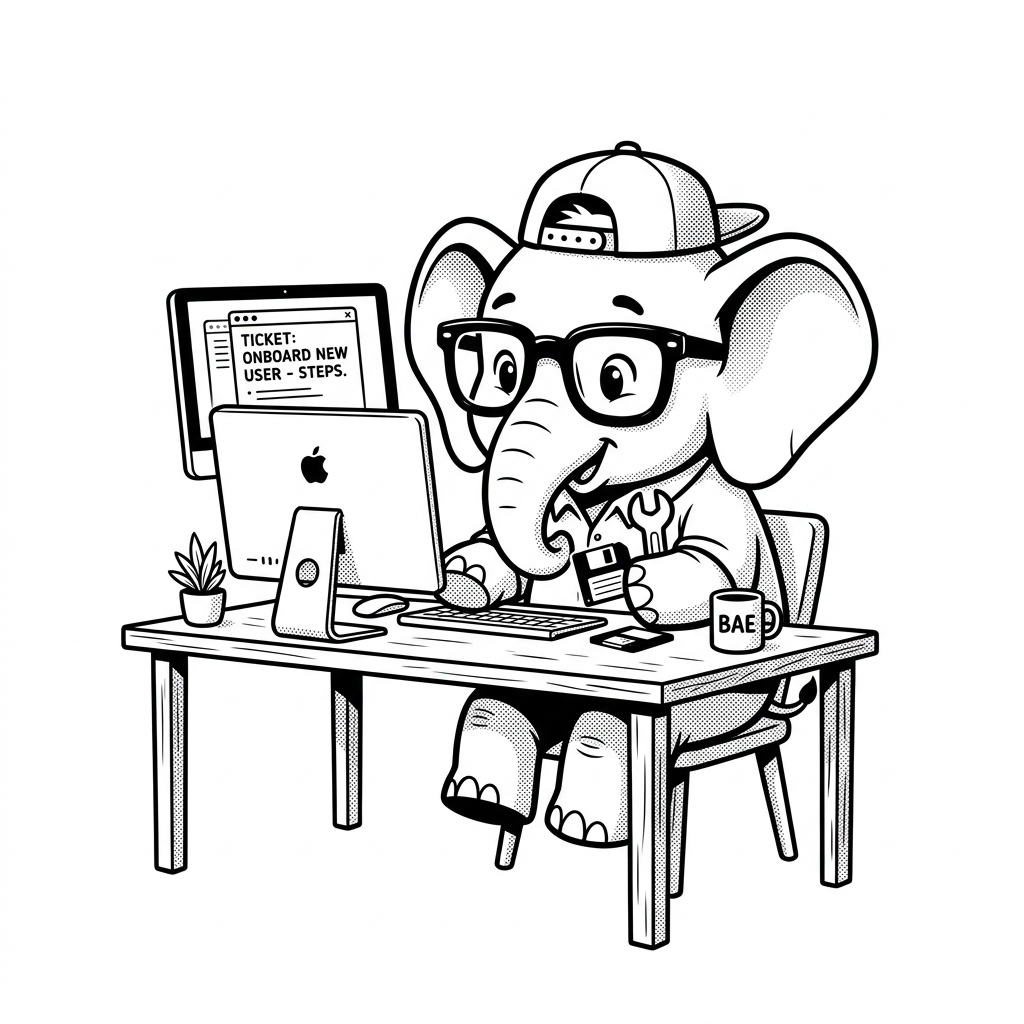
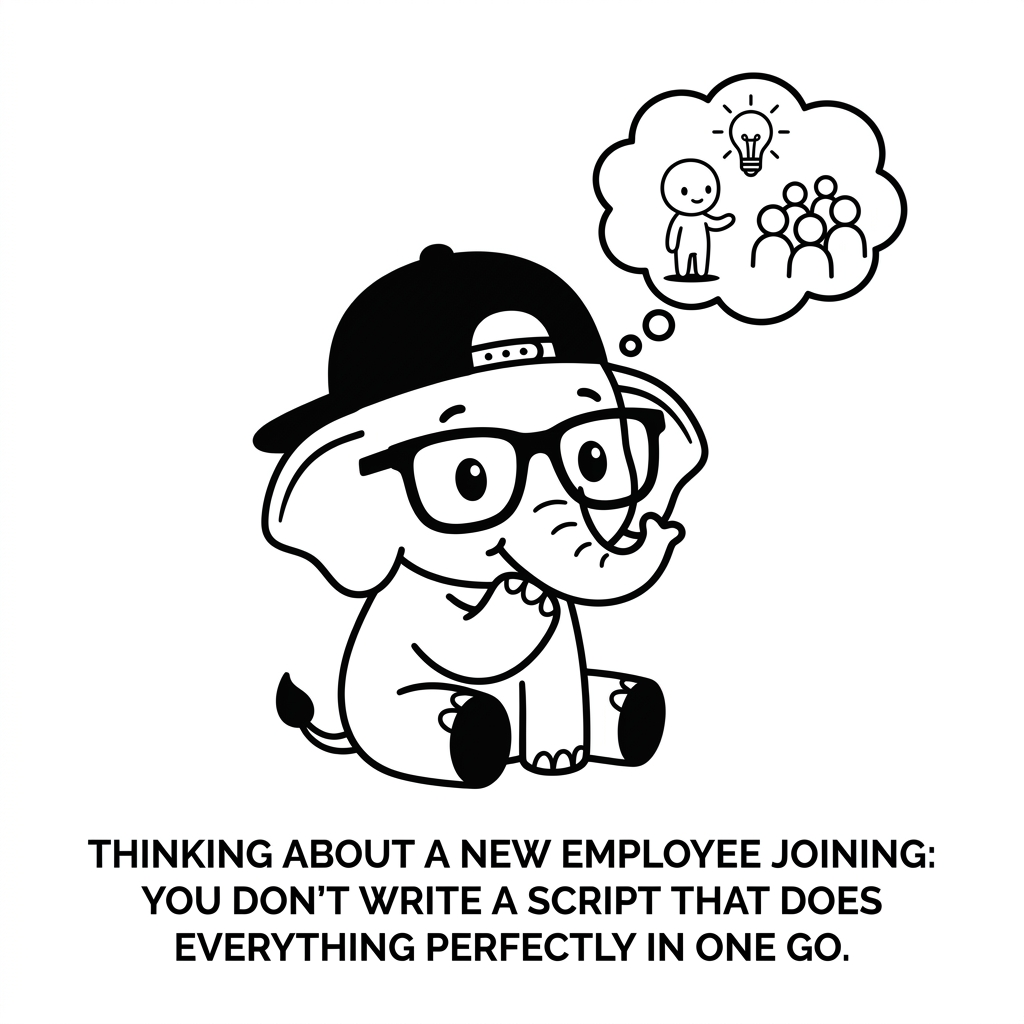
updated images

diff --git a/pending_illustrations.md b/pending_illustrations.md
@@ -10,32 +10,15 @@ An agent in an interactive chat session can then read this file, generate the im
 ## Queue
 
 <!-- entries start -->
-### Course: Agentic Frameworks (9 topics pending)
+### Course: Agentic Frameworks (0 topics pending)
 
 | Topic | File Path | Target Image Path | Prompt |
 |---|---|---|---|
-| Google ADK Tools and Functions | [`google-adk-tools-and-functions.mdx`](file:///docs/school/agentic-frameworks/google-adk/google-adk-tools-and-functions.mdx) | [`google-adk-tools-and-functions.png`](file:///docs/school/agentic-frameworks/assets/google-adk/google-adk-tools-and-functions.png) | Modern black and white illustration, clean ink or vector style. Pure white background. Strictly grayscale, no colors. Minimal text. The main character is Bae, a cute baby elephant drawn in black and white, wearing a backward baseball cap and oversized thick-rimmed glasses. Bae the baby elephant is imagine a master mechanic (the LLM). If he only has a wrench, he can only do basic repairs. |
-| What Are AI Agents? | [`what-are-ai-agents.mdx`](file:///docs/school/agentic-frameworks/intro/what-are-ai-agents.mdx) | [`what-are-ai-agents.png`](file:///docs/school/agentic-frameworks/assets/intro/what-are-ai-agents.png) | Modern black and white illustration, clean ink or vector style. Pure white background. Strictly grayscale, no colors. Minimal text. The main character is Bae, a cute baby elephant drawn in black and white, wearing a backward baseball cap and oversized thick-rimmed glasses. Bae the baby elephant is ![Illustration of Bae as a new IT employee](../assets/intro/what-are-ai-agents.png) think about when a new employee joins. You don’t write a script that does everything perfectly in one go. |
-| OpenAI Agents SDK Fundamentals | [`openai-sdk-fundamentals.mdx`](file:///docs/school/agentic-frameworks/openai-agents-sdk/openai-sdk-fundamentals.mdx) | [`openai-sdk-fundamentals.png`](file:///docs/school/agentic-frameworks/assets/openai-agents-sdk/openai-sdk-fundamentals.png) | Modern black and white illustration, clean ink or vector style. Pure white background. Strictly grayscale, no colors. Minimal text. The main character is Bae, a cute baby elephant drawn in black and white, wearing a backward baseball cap and oversized thick-rimmed glasses. Bae the baby elephant is using the OpenAI Agents SDK is like buying a pre-built gaming PC directly from Dell. It works perfectly out of the box, all the parts are guaranteed to work together, and support is easy. |
-| Agent Guardrails in OpenAI SDK | [`openai-sdk-guardrails.mdx`](file:///docs/school/agentic-frameworks/openai-agents-sdk/openai-sdk-guardrails.mdx) | [`openai-sdk-guardrails.png`](file:///docs/school/agentic-frameworks/assets/openai-agents-sdk/openai-sdk-guardrails.png) | Modern black and white illustration, clean ink or vector style. Pure white background. Strictly grayscale, no colors. Minimal text. The main character is Bae, a cute baby elephant drawn in black and white, wearing a backward baseball cap and oversized thick-rimmed glasses. Bae the baby elephant is think of a bowling alley. If you are a beginner, your ball is going to end up in the gutter. |
-| Agent Handoffs in OpenAI SDK | [`openai-sdk-handoffs.mdx`](file:///docs/school/agentic-frameworks/openai-agents-sdk/openai-sdk-handoffs.mdx) | [`openai-sdk-handoffs.png`](file:///docs/school/agentic-frameworks/assets/openai-agents-sdk/openai-sdk-handoffs.png) | Modern black and white illustration, clean ink or vector style. Pure white background. Strictly grayscale, no colors. Minimal text. The main character is Bae, a cute baby elephant drawn in black and white, wearing a backward baseball cap and oversized thick-rimmed glasses. Bae the baby elephant is think of a corporate call center. You call the helpline and get the Receptionist (Router Agent). |
-| OpenAI Agents SDK Production Deployment | [`openai-sdk-production-deployment.mdx`](file:///docs/school/agentic-frameworks/openai-agents-sdk/openai-sdk-production-deployment.mdx) | [`openai-sdk-production-deployment.png`](file:///docs/school/agentic-frameworks/assets/openai-agents-sdk/openai-sdk-production-deployment.png) | Modern black and white illustration, clean ink or vector style. Pure white background. Strictly grayscale, no colors. Minimal text. The main character is Bae, a cute baby elephant drawn in black and white, wearing a backward baseball cap and oversized thick-rimmed glasses. Bae the baby elephant is writing a Python script on your laptop to talk to OpenAI is like practicing guitar in your bedroom. It's fun and easy. |
-| OpenAI SDK Tools and Functions | [`openai-sdk-tools-and-functions.mdx`](file:///docs/school/agentic-frameworks/openai-agents-sdk/openai-sdk-tools-and-functions.mdx) | [`openai-sdk-tools-and-functions.png`](file:///docs/school/agentic-frameworks/assets/openai-agents-sdk/openai-sdk-tools-and-functions.png) | Modern black and white illustration, clean ink or vector style. Pure white background. Strictly grayscale, no colors. Minimal text. The main character is Bae, a cute baby elephant drawn in black and white, wearing a backward baseball cap and oversized thick-rimmed glasses. Bae the baby elephant is an LLM without tools is like a very smart executive locked in a room without a phone or a computer. They know a lot of theory, but they can't check today's stock price or send an email. |
-| Observability and Tracing in OpenAI SDK | [`openai-sdk-tracing.mdx`](file:///docs/school/agentic-frameworks/openai-agents-sdk/openai-sdk-tracing.mdx) | [`openai-sdk-tracing.png`](file:///docs/school/agentic-frameworks/assets/openai-agents-sdk/openai-sdk-tracing.png) | Modern black and white illustration, clean ink or vector style. Pure white background. Strictly grayscale, no colors. Minimal text. The main character is Bae, a cute baby elephant drawn in black and white, wearing a backward baseball cap and oversized thick-rimmed glasses. Bae the baby elephant is imagine managing a Swiggy delivery fleet. If a customer complains their food is cold, and all you know is 'Food Delivered at 8 PM,' you can't fix the problem. |
 
-### Course: App Security (10 topics pending)
+### Course: App Security (1 topic pending)
 
 | Topic | File Path | Target Image Path | Prompt |
 |---|---|---|---|
-| API Security | [`api-security.mdx`](file:///docs/school/app-security/api-security.mdx) | [`api-security.png`](file:///docs/school/app-security/assets/api-security.png) | Modern black and white illustration, clean ink or vector style. Pure white background. Strictly grayscale, no colors. Minimal text. The main character is Bae, a cute baby elephant drawn in black and white, wearing a backward baseball cap and oversized thick-rimmed glasses. Bae the baby elephant is imagine you run a massive cloud kitchen (like a backend API) that serves Swiggy and Zomato. You don't have waiters; you just have an automated counter where delivery guys drop tickets. |
-| Authentication Deep Dive | [`authentication-deep-dive.mdx`](file:///docs/school/app-security/authentication-deep-dive.mdx) | [`authentication-deep-dive.png`](file:///docs/school/app-security/assets/authentication-deep-dive.png) | Modern black and white illustration, clean ink or vector style. Pure white background. Strictly grayscale, no colors. Minimal text. The main character is Bae, a cute baby elephant drawn in black and white, wearing a backward baseball cap and oversized thick-rimmed glasses. Bae the baby elephant is think about trying to get into an exclusive corporate tech park. You don't just walk in. |
-| Authorization: RBAC and ABAC | [`authorization-rbac-abac.mdx`](file:///docs/school/app-security/authorization-rbac-abac.mdx) | [`authorization-rbac-abac.png`](file:///docs/school/app-security/assets/authorization-rbac-abac.png) | Modern black and white illustration, clean ink or vector style. Pure white background. Strictly grayscale, no colors. Minimal text. The main character is Bae, a cute baby elephant drawn in black and white, wearing a backward baseball cap and oversized thick-rimmed glasses. Bae the baby elephant is remember the tech park example from Authentication? So, the guard checked your ID and let you into the building (AuthN). |
-| Data Protection and Privacy | [`data-protection.mdx`](file:///docs/school/app-security/data-protection.mdx) | [`data-protection.png`](file:///docs/school/app-security/assets/data-protection.png) | Modern black and white illustration, clean ink or vector style. Pure white background. Strictly grayscale, no colors. Minimal text. The main character is Bae, a cute baby elephant drawn in black and white, wearing a backward baseball cap and oversized thick-rimmed glasses. Bae the baby elephant is imagine you are running a hospital in Mumbai. When you move patient files from one clinic to another, you put them in a locked briefcase (Data in Transit). |
-| Dependency Security | [`dependency-security.mdx`](file:///docs/school/app-security/dependency-security.mdx) | [`dependency-security.png`](file:///docs/school/app-security/assets/dependency-security.png) | Modern black and white illustration, clean ink or vector style. Pure white background. Strictly grayscale, no colors. Minimal text. The main character is Bae, a cute baby elephant drawn in black and white, wearing a backward baseball cap and oversized thick-rimmed glasses. Bae the baby elephant is think about running a popular Biryani joint. You make the rice and the spices perfectly (your code). |
-| OWASP Top 10 Vulnerabilities | [`owasp-top-10.mdx`](file:///docs/school/app-security/owasp-top-10.mdx) | [`owasp-top-10.png`](file:///docs/school/app-security/assets/owasp-top-10.png) | Modern black and white illustration, clean ink or vector style. Pure white background. Strictly grayscale, no colors. Minimal text. The main character is Bae, a cute baby elephant drawn in black and white, wearing a backward baseball cap and oversized thick-rimmed glasses. Bae the baby elephant is think about a busy street food vendor in Mumbai. If the vendor doesn't check where their ingredients come from, they might serve adulterated food (Injection). |
-| Secrets Management | [`secrets-management.mdx`](file:///docs/school/app-security/secrets-management.mdx) | [`secrets-management.png`](file:///docs/school/app-security/assets/secrets-management.png) | Modern black and white illustration, clean ink or vector style. Pure white background. Strictly grayscale, no colors. Minimal text. The main character is Bae, a cute baby elephant drawn in black and white, wearing a backward baseball cap and oversized thick-rimmed glasses. Bae the baby elephant is imagine you have a stash of emergency cash and some expensive gold jewelry. Do you just leave it on the kitchen table (source code)? |
-| Security in CI/CD (DevSecOps) | [`security-in-cicd.mdx`](file:///docs/school/app-security/security-in-cicd.mdx) | [`security-in-cicd.png`](file:///docs/school/app-security/assets/security-in-cicd.png) | Modern black and white illustration, clean ink or vector style. Pure white background. Strictly grayscale, no colors. Minimal text. The main character is Bae, a cute baby elephant drawn in black and white, wearing a backward baseball cap and oversized thick-rimmed glasses. Bae the baby elephant is think about airport security. You don't just let someone walk from the street straight onto the airplane and then check their bags mid-flight. |
-| Security Mindset for Engineers | [`security-mindset.mdx`](file:///docs/school/app-security/security-mindset.mdx) | [`security-mindset.png`](file:///docs/school/app-security/assets/security-mindset.png) | Modern black and white illustration, clean ink or vector style. Pure white background. Strictly grayscale, no colors. Minimal text. The main character is Bae, a cute baby elephant drawn in black and white, wearing a backward baseball cap and oversized thick-rimmed glasses. Bae the baby elephant is think of a corporate tech park in Bengaluru. You don't just let anyone walk in and sit at a desk. |
 | Threat Modeling in Software Engineering | [`threat-modeling.mdx`](file:///docs/school/app-security/threat-modeling.mdx) | [`threat-modeling.png`](file:///docs/school/app-security/assets/threat-modeling.png) | Modern black and white illustration, clean ink or vector style. Pure white background. Strictly grayscale, no colors. Minimal text. The main character is Bae, a cute baby elephant drawn in black and white, wearing a backward baseball cap and oversized thick-rimmed glasses. Bae the baby elephant is imagine you are opening a new jewelry store in a busy market. You wouldn't just open the doors and hope for the best, right? |
 
 ### Course: Cicd Pipelines (10 topics pending)